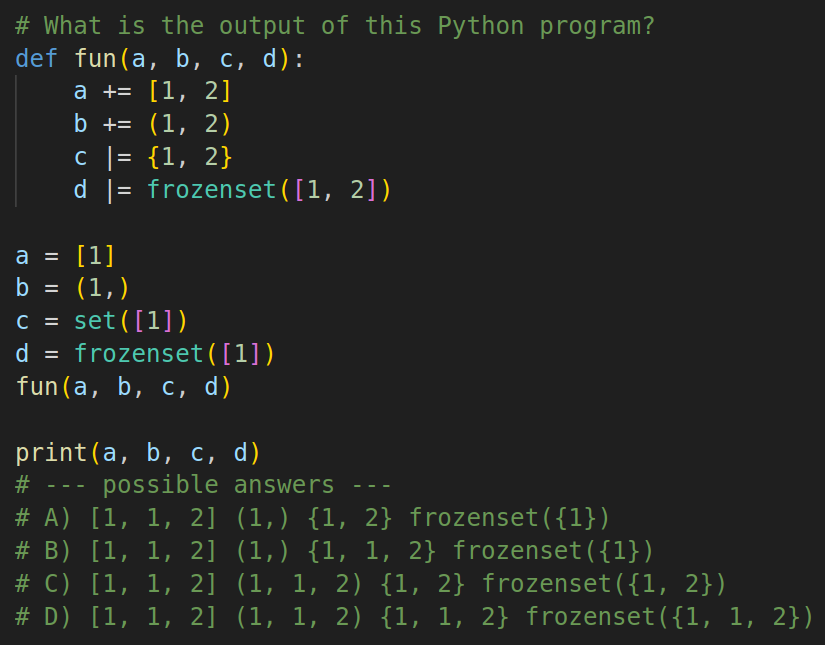
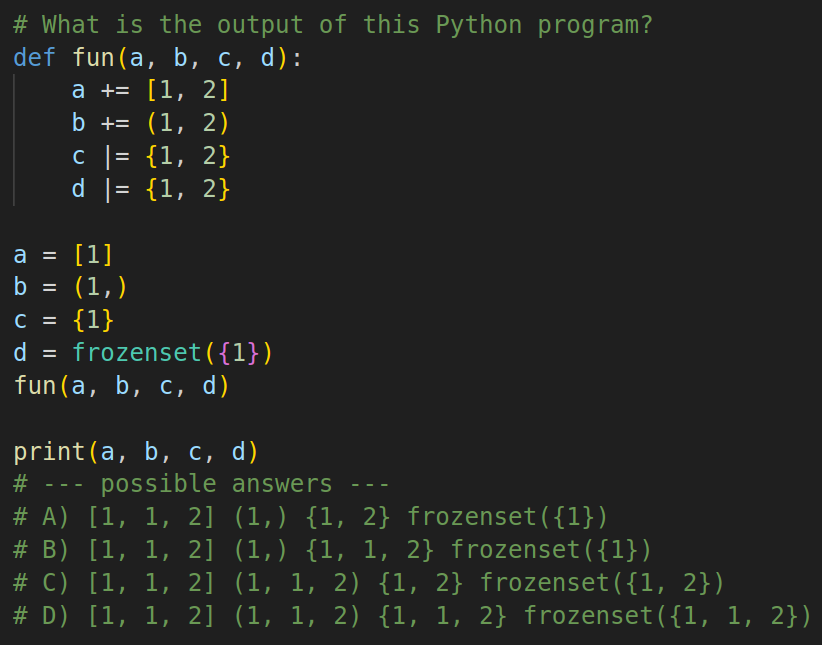
update

diff --git a/exercises/exercise7.py b/exercises/exercise7.py
@@ -4,12 +4,12 @@ def fun(a, b, c, d):
     a += [1, 2]
     b += (1, 2)
     c |= {1, 2}
-    d |= frozenset([1, 2])
+    d |= {1, 2}
 
 a = [1]
 b = (1,)
-c = set([1])
-d = frozenset([1])
+c = {1}
+d = frozenset({1})
 fun(a, b, c, d)
 
 print(a, b, c, d)
